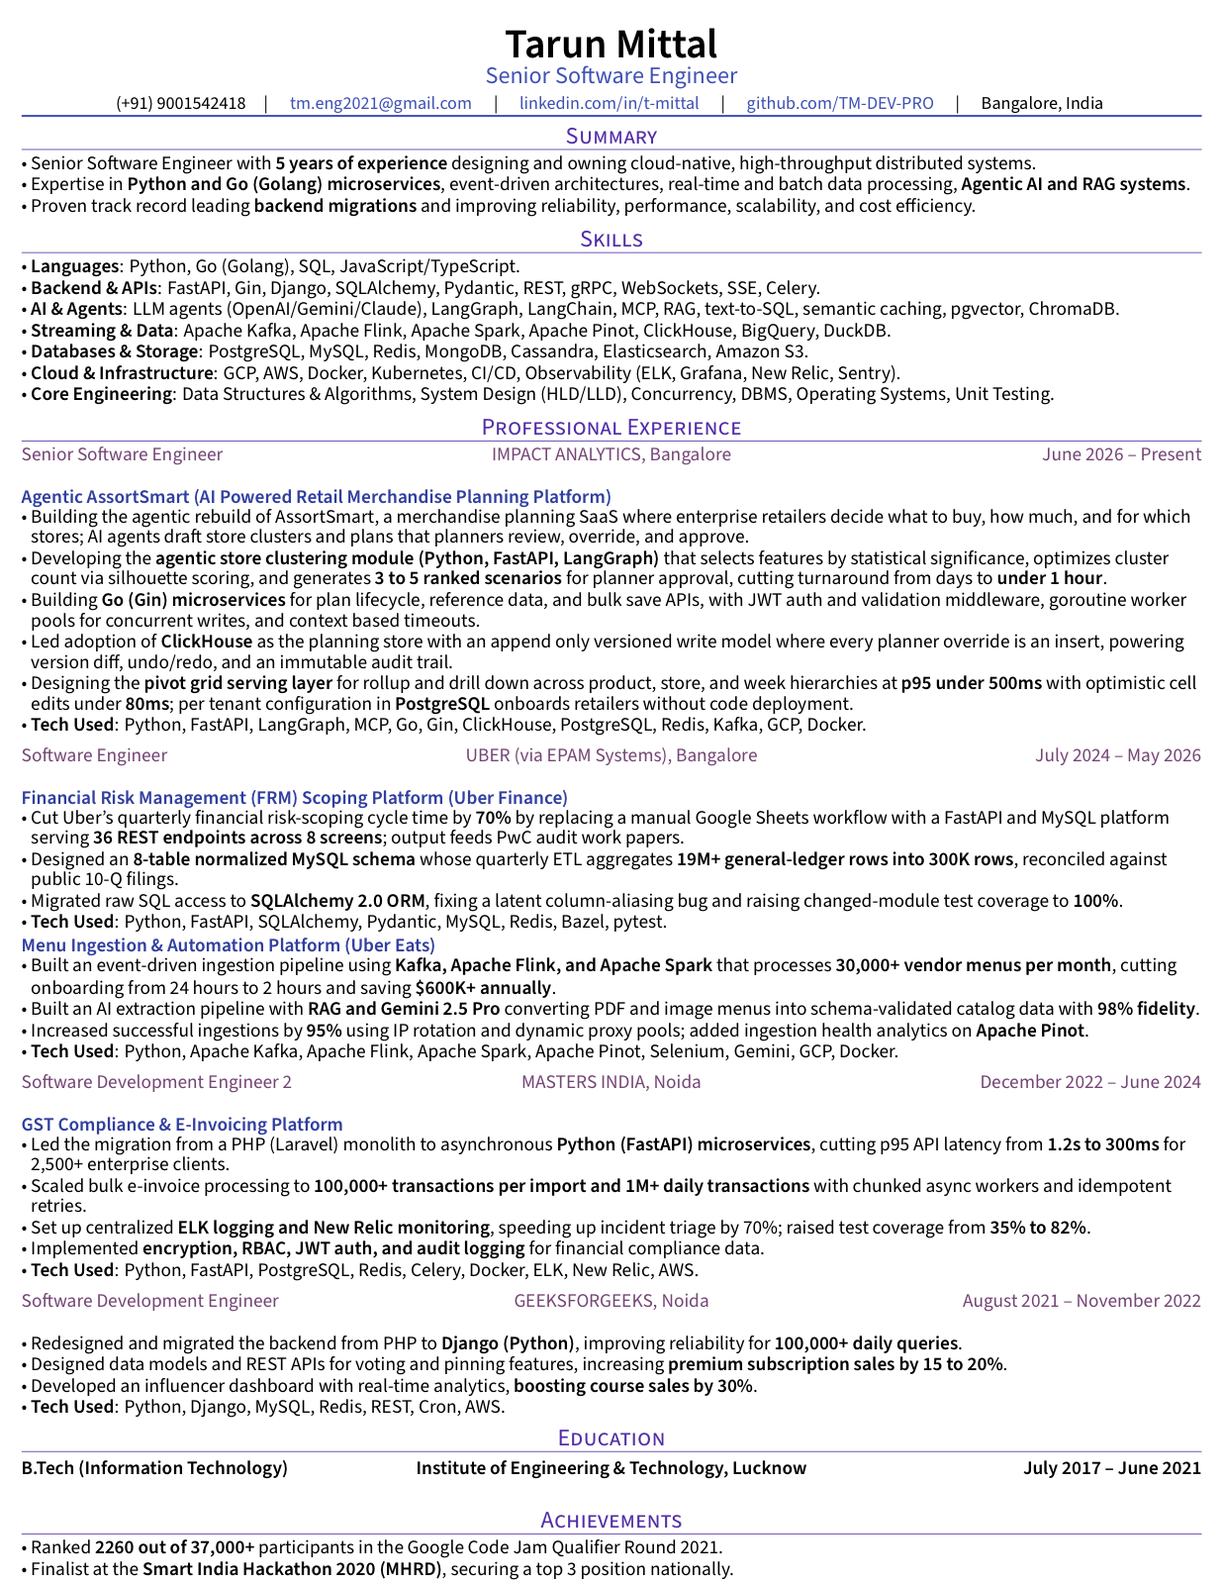
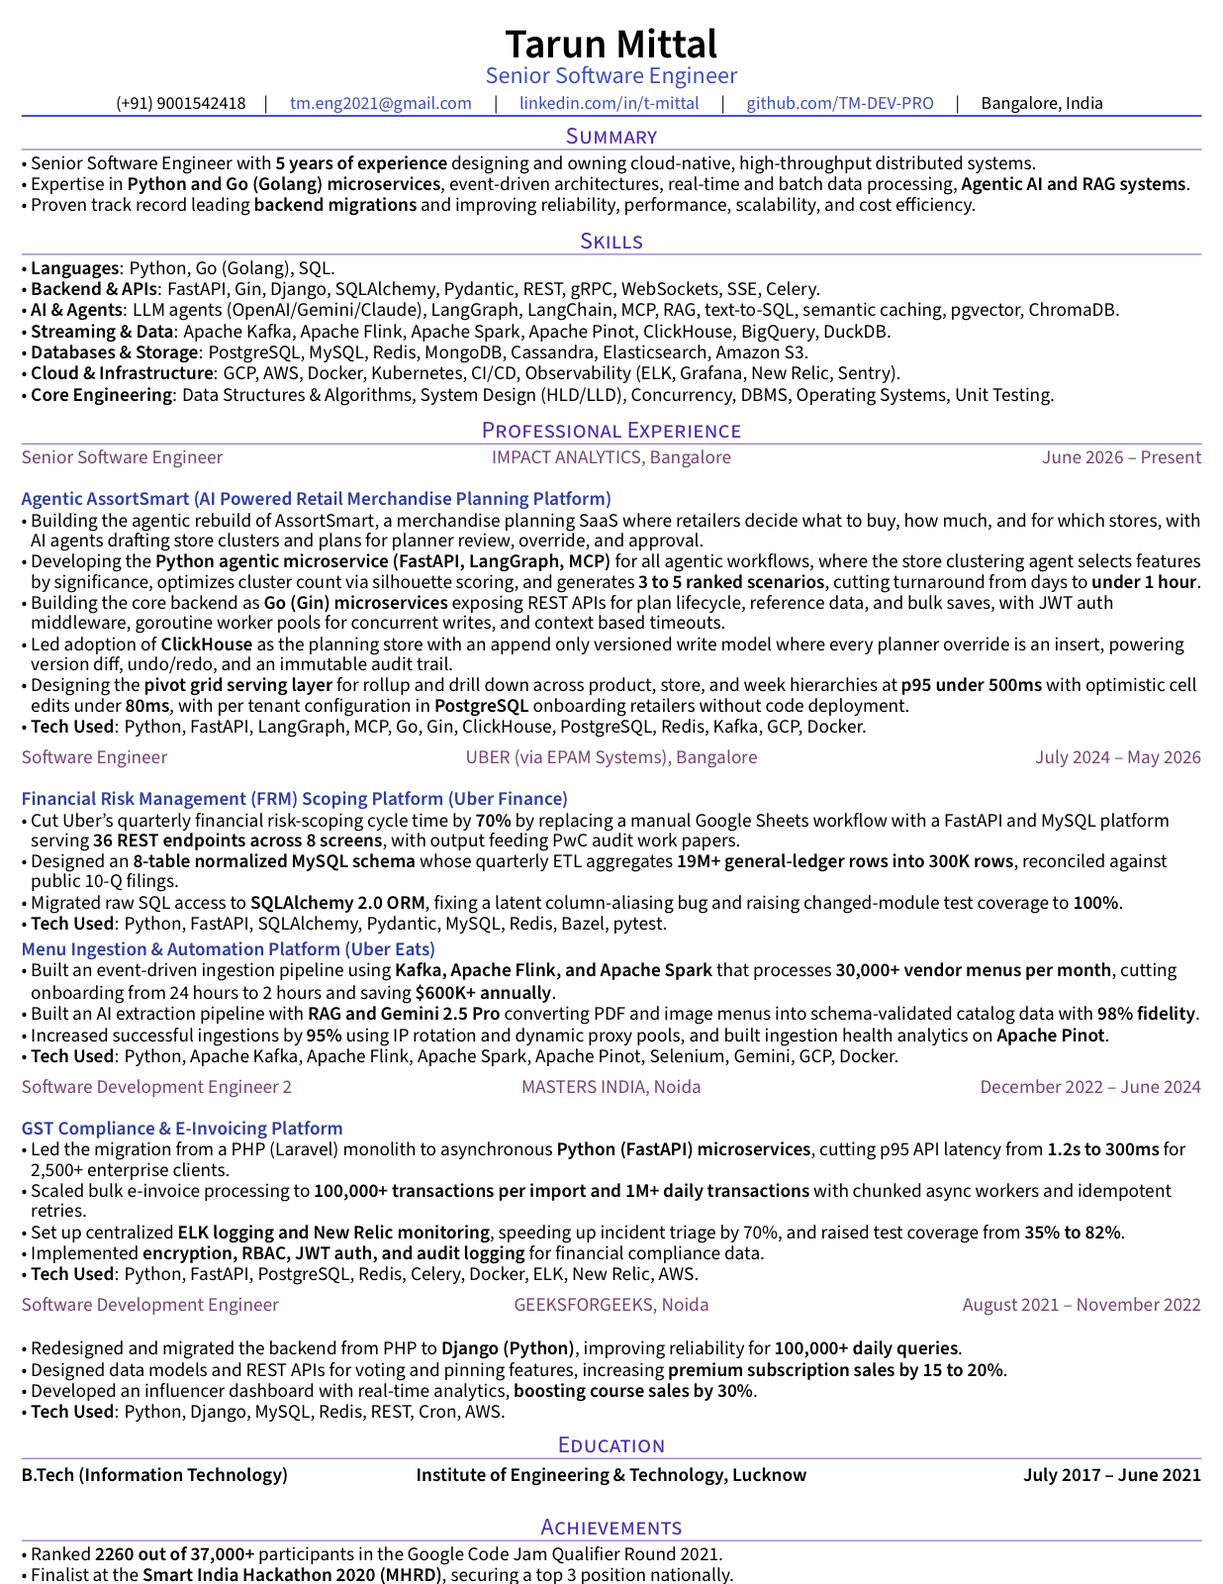
Remove semicolons and TypeScript, frame IA as one Python agentic microservice plus Go core backend, add semicolon and senior-signal ATS checks, fix hardcoded single-page check

diff --git a/InterviewPrep.html b/InterviewPrep.html
@@ -219,7 +219,7 @@ strong{color:#fff}
 </blockquote>
 <hr>
 <h2 id="1-elevator-pitch-30-seconds">1. Elevator pitch (30 seconds)</h2>
-<p>"I work on the agentic rebuild of AssortSmart — a merchandise planning SaaS where enterprise retailers decide what products to buy, in what quantities, for which stores, a season ahead. The shift we're building: AI agents draft the plan — store clusters, assortment scenarios — and planners review, override, and approve, instead of configuring everything by hand. I own the store-clustering module: the agent selects clustering features by statistical significance, optimizes cluster count with silhouette scoring, and presents 3 to 5 distinct ranked scenarios with plain-English rationale for planner approval — turnaround goes from days to under an hour. Alongside that I build the Go services for plan lifecycle and bulk saves, and the data layer: ClickHouse with an append-only versioned write model where every planner override is an insert — which gives us version diff, undo/redo, and an immutable audit trail for free — plus the pivot-grid serving layer with sub-500 ms rollups and 80 ms optimistic cell edits."</p>
+<p>"I work on the agentic rebuild of AssortSmart — a merchandise planning SaaS where enterprise retailers decide what products to buy, in what quantities, for which stores, a season ahead. The shift we're building: AI agents draft the plan — store clusters, assortment scenarios — and planners review, override, and approve, instead of configuring everything by hand. Architecturally it's one Python agentic microservice (FastAPI, LangGraph, MCP) that runs all agentic workflows, and a Go core backend — Gin microservices exposing the REST APIs for plan lifecycle, reference data, and bulk saves. In the agent tier I own the store-clustering agent: it selects features by statistical significance, optimizes cluster count with silhouette scoring, and presents 3 to 5 distinct ranked scenarios with plain-English rationale for planner approval — turnaround goes from days to under an hour. Under both sits ClickHouse with an append-only versioned write model where every planner override is an insert — which gives us version diff, undo/redo, and an immutable audit trail for free — plus the pivot-grid serving layer with sub-500 ms rollups and 80 ms optimistic cell edits."</p>
 <h2 id="2-the-resume-project-one-block-agentic-assortsmart">2. The resume project (one block: Agentic AssortSmart)</h2>
 <p>The resume shows <strong>one project</strong> under Impact Analytics with five bullets. Sources: the <strong>Agentic Store Clustering HLR v1.1</strong>, the <strong>Planning Platform Architecture v5 deck</strong>, and the <strong>Hindsight Module FRD</strong> (copies in <code>../source_docs/</code>), plus the playbook.</p>
 <table>
@@ -237,13 +237,13 @@ strong{color:#fff}
 <td>§3d below; Architecture deck slides 1–2</td>
 </tr>
 <tr>
-<td>Agentic store clustering module (3–5 scenarios, &lt;1 h)</td>
-<td>Autonomous feature selection, k optimization, multi-scenario compare, approval gating</td>
+<td>Python agentic microservice (all agentic workflows) + clustering agent (3–5 scenarios, &lt;1 h)</td>
+<td>ONE agentic service owns every agentic workflow; the clustering agent is its flagship: autonomous feature selection, k optimization, multi-scenario compare, approval gating</td>
 <td>§3d below; HLR-AG-001…006, HLR-SC-001…004</td>
 </tr>
 <tr>
-<td>Go (Gin) microservices</td>
-<td>The non-agentic service surface you build</td>
+<td>Go (Gin) core backend microservices</td>
+<td>The main backend: REST APIs for everything non-agentic</td>
 <td>§3b below; playbook <strong>§10</strong></td>
 </tr>
 <tr>
@@ -258,6 +258,7 @@ strong{color:#fff}
 </tr>
 </tbody>
 </table>
+<p><strong>The service split, one line (say it exactly like this):</strong> "One Python microservice (FastAPI, LangGraph, MCP) runs all agentic workflows — the agents, their tools, LLM orchestration. The core backend is Go: Gin microservices exposing the REST APIs for plan lifecycle, reference data, and bulk saves. The two talk over versioned API contracts, and the split lands on a natural deployment boundary — the agent tier scales with LLM latency, the Go tier scales with request volume."</p>
 <h2 id="3-the-stack-story-you-must-tell-in-order-july-2026-direction">3. The stack story you must tell in order (July 2026 direction)</h2>
 <p>This is the single most senior narrative you own. Tell it as an <em>evolution</em>, not a static choice:</p>
 <ol>
@@ -269,7 +270,7 @@ strong{color:#fff}
 <p><strong>Precision on "transactional":</strong> it's planning-grid transactionality — atomic batch inserts of one version, session read-after-write via version watermarks, idempotent replays, audit history for free — <em>not</em> bank-ledger OLTP. Cross-entity invariants that need true multi-statement ACID (auth, tenant config, workflow state) stay on a thin Postgres metadata plane. Say this unprompted; it shows judgment.</p>
 <p><strong>Go vs Rust discipline:</strong> "Go by default, Rust by measurement — an endpoint earns Rust with a profile, not a preference." Gin chosen over chi/Echo/fiber for maturity + team familiarity (fiber rejected: fasthttp breaks <code>net/http</code> semantics). Rust precedent exists in-house (CortexEye backend is Rust/Axum). <em>(Rust is deliberately not on the resume — if asked about the stack, mention it as the escape hatch, don't claim Rust delivery.)</em></p>
 <h2 id="3b-the-go-services-what-you-actually-build-defend-the-go-bullet">3b. The Go services — what you actually build (defend the Go bullet)</h2>
-<p>The resume says: <em>"Building Go (Gin) microservices for plan lifecycle, reference data, and bulk save APIs, with JWT auth and validation middleware, goroutine worker pools for concurrent writes, and context-based timeouts."</em> Here is the concrete shape behind each phrase:</p>
+<p>The resume says: <em>"Building the core backend as Go (Gin) microservices exposing REST APIs for plan lifecycle, reference data, and bulk saves, with JWT auth middleware, goroutine worker pools for concurrent writes, and context based timeouts."</em> Here is the concrete shape behind each phrase:</p>
 <ul>
 <li><strong>Plan lifecycle APIs</strong> — create/copy/finalize/soft-delete plan endpoints; state transitions validated server-side (draft → in-review → finalized); finalize is a human signature, so the handler enforces role + confirmation token.</li>
 <li><strong>Reference data APIs</strong> — hierarchy trees, fiscal calendars, store masters, tenant config. Read-heavy fan-out: handler issues concurrent ClickHouse/Postgres reads with <code>errgroup.WithContext</code>, returns partial-safe composites.</li>

diff --git a/resume/sections/experience.tex b/resume/sections/experience.tex
@@ -17,18 +17,18 @@
 \textcolor{Project}{\textbf{Agentic AssortSmart (AI Powered Retail Merchandise Planning Platform)}}
 \vspace{-1ex}
 \begin{zitemize}
-    \item Building the agentic rebuild of AssortSmart, a merchandise planning SaaS where enterprise retailers decide what to buy, how much, and for which stores; AI agents draft store clusters and plans that planners review, override, and approve.
-    \item Developing the \textbf{agentic store clustering module (Python, FastAPI, LangGraph)} that selects features by statistical significance, optimizes cluster count via silhouette scoring, and generates \textbf{3 to 5 ranked scenarios} for planner approval, cutting turnaround from days to \textbf{under 1 hour}.
-    \item Building \textbf{Go (Gin) microservices} for plan lifecycle, reference data, and bulk save APIs, with JWT auth and validation middleware, goroutine worker pools for concurrent writes, and context based timeouts.
+    \item Building the agentic rebuild of AssortSmart, a merchandise planning SaaS where retailers decide what to buy, how much, and for which stores, with AI agents drafting store clusters and plans for planner review, override, and approval.
+    \item Developing the \textbf{Python agentic microservice (FastAPI, LangGraph, MCP)} for all agentic workflows, where the store clustering agent selects features by significance, optimizes cluster count via silhouette scoring, and generates \textbf{3 to 5 ranked scenarios}, cutting turnaround from days to \textbf{under 1 hour}.
+    \item Building the core backend as \textbf{Go (Gin) microservices} exposing REST APIs for plan lifecycle, reference data, and bulk saves, with JWT auth middleware, goroutine worker pools for concurrent writes, and context based timeouts.
     \item Led adoption of \textbf{ClickHouse} as the planning store with an append only versioned write model where every planner override is an insert, powering version diff, undo/redo, and an immutable audit trail.
-    \item Designing the \textbf{pivot grid serving layer} for rollup and drill down across product, store, and week hierarchies at \textbf{p95 under 500ms} with optimistic cell edits under \textbf{80ms}; per tenant configuration in \textbf{PostgreSQL} onboards retailers without code deployment.
+    \item Designing the \textbf{pivot grid serving layer} for rollup and drill down across product, store, and week hierarchies at \textbf{p95 under 500ms} with optimistic cell edits under \textbf{80ms}, with per tenant configuration in \textbf{PostgreSQL} onboarding retailers without code deployment.
     \item \textbf{Tech Used}: Python, FastAPI, LangGraph, MCP, Go, Gin, ClickHouse, PostgreSQL, Redis, Kafka, GCP, Docker.
 \end{zitemize}
 
 %====================
 % EXPERIENCE B — UBER
 %====================
-\vspace{1ex}
+\vspace{0.8ex}
 \noindent
 \begin{tabularx}{\textwidth}{@{}L C R@{}}
 \textcolor{role}{Software Engineer} & \textcolor{company}{UBER (via EPAM Systems), Bangalore} & \textcolor{date}{July 2024 -- May 2026}\\
@@ -38,7 +38,7 @@
 \textcolor{Project}{\textbf{Financial Risk Management (FRM) Scoping Platform (Uber Finance)}}
 \vspace{-1ex}
 \begin{zitemize}
-    \item Cut Uber's quarterly financial risk-scoping cycle time by \textbf{70\%} by replacing a manual Google Sheets workflow with a FastAPI and MySQL platform serving \textbf{36 REST endpoints across 8 screens}; output feeds PwC audit work papers.
+    \item Cut Uber's quarterly financial risk-scoping cycle time by \textbf{70\%} by replacing a manual Google Sheets workflow with a FastAPI and MySQL platform serving \textbf{36 REST endpoints across 8 screens}, with output feeding PwC audit work papers.
     \item Designed an \textbf{8-table normalized MySQL schema} whose quarterly ETL aggregates \textbf{19M+ general-ledger rows into 300K rows}, reconciled against public 10-Q filings.
     \item Migrated raw SQL access to \textbf{SQLAlchemy 2.0 ORM}, fixing a latent column-aliasing bug and raising changed-module test coverage to \textbf{100\%}.
     \item \textbf{Tech Used}: Python, FastAPI, SQLAlchemy, Pydantic, MySQL, Redis, Bazel, pytest.
@@ -50,14 +50,14 @@
 \begin{zitemize}
     \item Built an event-driven ingestion pipeline using \textbf{Kafka, Apache Flink, and Apache Spark} that processes \textbf{30,000+ vendor menus per month}, cutting onboarding from 24 hours to 2 hours and saving \textbf{\$600K+ annually}.
     \item Built an AI extraction pipeline with \textbf{RAG and Gemini 2.5 Pro} converting PDF and image menus into schema-validated catalog data with \textbf{98\% fidelity}.
-    \item Increased successful ingestions by \textbf{95\%} using IP rotation and dynamic proxy pools; added ingestion health analytics on \textbf{Apache Pinot}.
+    \item Increased successful ingestions by \textbf{95\%} using IP rotation and dynamic proxy pools, and built ingestion health analytics on \textbf{Apache Pinot}.
     \item \textbf{Tech Used}: Python, Apache Kafka, Apache Flink, Apache Spark, Apache Pinot, Selenium, Gemini, GCP, Docker.
 \end{zitemize}
 
 %====================
 % EXPERIENCE C — MASTERS INDIA
 %====================
-\vspace{1ex}
+\vspace{0.8ex}
 \noindent
 \begin{tabularx}{\textwidth}{@{}L C R@{}}
 \textcolor{role}{Software Development Engineer 2} & \textcolor{company}{MASTERS INDIA, Noida} & \textcolor{date}{December 2022 -- June 2024}\\
@@ -69,7 +69,7 @@
 \begin{zitemize}
     \item Led the migration from a PHP (Laravel) monolith to asynchronous \textbf{Python (FastAPI) microservices}, cutting p95 API latency from \textbf{1.2s to 300ms} for 2,500+ enterprise clients.
     \item Scaled bulk e-invoice processing to \textbf{100,000+ transactions per import and 1M+ daily transactions} with chunked async workers and idempotent retries.
-    \item Set up centralized \textbf{ELK logging and New Relic monitoring}, speeding up incident triage by 70\%; raised test coverage from \textbf{35\% to 82\%}.
+    \item Set up centralized \textbf{ELK logging and New Relic monitoring}, speeding up incident triage by 70\%, and raised test coverage from \textbf{35\% to 82\%}.
     \item Implemented \textbf{encryption, RBAC, JWT auth, and audit logging} for financial compliance data.
     \item \textbf{Tech Used}: Python, FastAPI, PostgreSQL, Redis, Celery, Docker, ELK, New Relic, AWS.
 \end{zitemize}
@@ -77,7 +77,7 @@
 %====================
 % EXPERIENCE D — GEEKSFORGEEKS
 %====================
-\vspace{1ex}
+\vspace{0.8ex}
 \noindent
 \begin{tabularx}{\textwidth}{@{}L C R@{}}
 \textcolor{role}{Software Development Engineer} & \textcolor{company}{GEEKSFORGEEKS, Noida} & \textcolor{date}{August 2021 -- November 2022}\\

diff --git a/ats_scan.py b/ats_scan.py
@@ -31,7 +31,9 @@ def check(name, weight, ok, detail=""):
 
 # ---------- 1. Parseability ----------
 check("Text extractable (not image-based)", 10, len(words) > 200, f"{len(words)} words extracted")
-check("Single page", 4, True, "1 page (verified via pypdf)")
+from pypdf import PdfReader
+n_pages = len(PdfReader(PDF).pages)
+check("Single page", 4, n_pages == 1, f"{n_pages} page(s) via pypdf")
 # Jobscan/Resume Worded flag resumes over ~1000 words; dense one-page senior
 # resumes typically land 600-900
 check("Word count in 400-900 band", 4, 400 <= len(words) <= 900, f"{len(words)} words")
@@ -139,10 +141,18 @@ quantified = [b for b in exp_bullets if re.search(r"\d", b)]
 check(">=60% experience bullets quantified", 8,
       len(quantified) / max(len(exp_bullets), 1) >= 0.6,
       f"{len(quantified)}/{len(exp_bullets)} experience bullets carry numbers")
-verbs = ["architected", "designed", "built", "led", "reduced", "cut", "scaled",
-         "migrated", "implemented", "developed", "increased", "redesigned"]
+verbs = ["architected", "designed", "built", "building", "led", "reduced",
+         "cut", "scaled", "migrated", "implemented", "developed", "developing",
+         "increased", "redesigned", "designing", "set up"]
 verb_hits = sum(1 for b in bullets for v in verbs if b.lower().lstrip("\u2022 ").startswith(v))
 check("Action-verb-led bullets", 5, verb_hits >= 12, f"{verb_hits} bullets start with action verbs")
+semis = [b[:60] for b in exp_bullets if ";" in b]
+check("No semicolons in bullets", 3, not semis, f"bullets with ';': {semis}")
+senior_signals = ["led", "architected", "designed", "adoption", "migration",
+                  "p95", "microservices", "distributed"]
+sig_hits = [s for s in senior_signals if s in low]
+check("Senior-scope signals present", 4, len(sig_hits) >= 6,
+      f"{len(sig_hits)}/{len(senior_signals)}: {sig_hits}")
 
 # ---------- 7. Red flags ----------
 check("No tables/columns artifacts (contact on one band)", 3, "@" in norm.splitlines()[2] or "@" in norm[:400])

diff --git a/resume/sections/skills.tex b/resume/sections/skills.tex
@@ -1,5 +1,5 @@
 \begin{zitemize}
-\item \textbf{Languages}: Python, Go (Golang), SQL, JavaScript/TypeScript.
+\item \textbf{Languages}: Python, Go (Golang), SQL.
 \item \textbf{Backend \& APIs}: FastAPI, Gin, Django, SQLAlchemy, Pydantic, REST, gRPC, WebSockets, SSE, Celery.
 \item \textbf{AI \& Agents}: LLM agents (OpenAI/Gemini/Claude), LangGraph, LangChain, MCP, RAG, text-to-SQL, semantic caching, pgvector, ChromaDB.
 \item \textbf{Streaming \& Data}: Apache Kafka, Apache Flink, Apache Spark, Apache Pinot, ClickHouse, BigQuery, DuckDB.

diff --git a/resume/resume.tex b/resume/resume.tex
@@ -7,8 +7,8 @@
 \usepackage{TLCresume}
 
 % ---- Typography (1-page fit with breathing room) ----
-\renewcommand\normalsize{\fontsize{9.6}{10.2}\selectfont}\normalsize
-\geometry{left=0.15in, right=0.15in, top=0.12in, bottom=0.28in, includehead}
+\renewcommand\normalsize{\fontsize{9.6}{10.1}\selectfont}\normalsize
+\geometry{left=0.15in, right=0.15in, top=0.12in, bottom=0.22in, includehead}
 
 % % COLOR: Modern Slate
 \definecolor{highlight}{RGB}{63, 81, 181}

diff --git a/interview_prep/projects/01_impact_analytics_agentic_assort.md b/interview_prep/projects/01_impact_analytics_agentic_assort.md
@@ -9,7 +9,7 @@
 
 ## 1. Elevator pitch (30 seconds)
 
-"I work on the agentic rebuild of AssortSmart — a merchandise planning SaaS where enterprise retailers decide what products to buy, in what quantities, for which stores, a season ahead. The shift we're building: AI agents draft the plan — store clusters, assortment scenarios — and planners review, override, and approve, instead of configuring everything by hand. I own the store-clustering module: the agent selects clustering features by statistical significance, optimizes cluster count with silhouette scoring, and presents 3 to 5 distinct ranked scenarios with plain-English rationale for planner approval — turnaround goes from days to under an hour. Alongside that I build the Go services for plan lifecycle and bulk saves, and the data layer: ClickHouse with an append-only versioned write model where every planner override is an insert — which gives us version diff, undo/redo, and an immutable audit trail for free — plus the pivot-grid serving layer with sub-500 ms rollups and 80 ms optimistic cell edits."
+"I work on the agentic rebuild of AssortSmart — a merchandise planning SaaS where enterprise retailers decide what products to buy, in what quantities, for which stores, a season ahead. The shift we're building: AI agents draft the plan — store clusters, assortment scenarios — and planners review, override, and approve, instead of configuring everything by hand. Architecturally it's one Python agentic microservice (FastAPI, LangGraph, MCP) that runs all agentic workflows, and a Go core backend — Gin microservices exposing the REST APIs for plan lifecycle, reference data, and bulk saves. In the agent tier I own the store-clustering agent: it selects features by statistical significance, optimizes cluster count with silhouette scoring, and presents 3 to 5 distinct ranked scenarios with plain-English rationale for planner approval — turnaround goes from days to under an hour. Under both sits ClickHouse with an append-only versioned write model where every planner override is an insert — which gives us version diff, undo/redo, and an immutable audit trail for free — plus the pivot-grid serving layer with sub-500 ms rollups and 80 ms optimistic cell edits."
 
 ## 2. The resume project (one block: Agentic AssortSmart)
 
@@ -18,10 +18,12 @@ The resume shows **one project** under Impact Analytics with five bullets. Sourc
 | Resume bullet | What it covers | Where the defense lives |
 |---|---|---|
 | Platform intro (agents draft, planners approve) | What AssortSmart does for retailers and why the agentic rebuild exists | §3d below; Architecture deck slides 1–2 |
-| Agentic store clustering module (3–5 scenarios, <1 h) | Autonomous feature selection, k optimization, multi-scenario compare, approval gating | §3d below; HLR-AG-001…006, HLR-SC-001…004 |
-| Go (Gin) microservices | The non-agentic service surface you build | §3b below; playbook **§10** |
+| Python agentic microservice (all agentic workflows) + clustering agent (3–5 scenarios, <1 h) | ONE agentic service owns every agentic workflow; the clustering agent is its flagship: autonomous feature selection, k optimization, multi-scenario compare, approval gating | §3d below; HLR-AG-001…006, HLR-SC-001…004 |
+| Go (Gin) core backend microservices | The main backend: REST APIs for everything non-agentic | §3b below; playbook **§10** |
 | ClickHouse append-only versioned store | Every override is an insert; version diff / undo-redo / audit trail | playbook §2 D2, §4, **§10** |
 | Pivot grid serving layer + per-tenant config in PostgreSQL | <500 ms rollup/drill-down, <80 ms optimistic edits, config-driven tenant onboarding | §3e below; Architecture deck ARCH-06, NFR-01, ENG-01 |
+
+**The service split, one line (say it exactly like this):** "One Python microservice (FastAPI, LangGraph, MCP) runs all agentic workflows — the agents, their tools, LLM orchestration. The core backend is Go: Gin microservices exposing the REST APIs for plan lifecycle, reference data, and bulk saves. The two talk over versioned API contracts, and the split lands on a natural deployment boundary — the agent tier scales with LLM latency, the Go tier scales with request volume."
 
 ## 3. The stack story you must tell in order (July 2026 direction)
 
@@ -38,7 +40,7 @@ This is the single most senior narrative you own. Tell it as an *evolution*, not
 
 ## 3b. The Go services — what you actually build (defend the Go bullet)
 
-The resume says: *"Building Go (Gin) microservices for plan lifecycle, reference data, and bulk save APIs, with JWT auth and validation middleware, goroutine worker pools for concurrent writes, and context-based timeouts."* Here is the concrete shape behind each phrase:
+The resume says: *"Building the core backend as Go (Gin) microservices exposing REST APIs for plan lifecycle, reference data, and bulk saves, with JWT auth middleware, goroutine worker pools for concurrent writes, and context based timeouts."* Here is the concrete shape behind each phrase:
 
 - **Plan lifecycle APIs** — create/copy/finalize/soft-delete plan endpoints; state transitions validated server-side (draft → in-review → finalized); finalize is a human signature, so the handler enforces role + confirmation token.
 - **Reference data APIs** — hierarchy trees, fiscal calendars, store masters, tenant config. Read-heavy fan-out: handler issues concurrent ClickHouse/Postgres reads with `errgroup.WithContext`, returns partial-safe composites.
